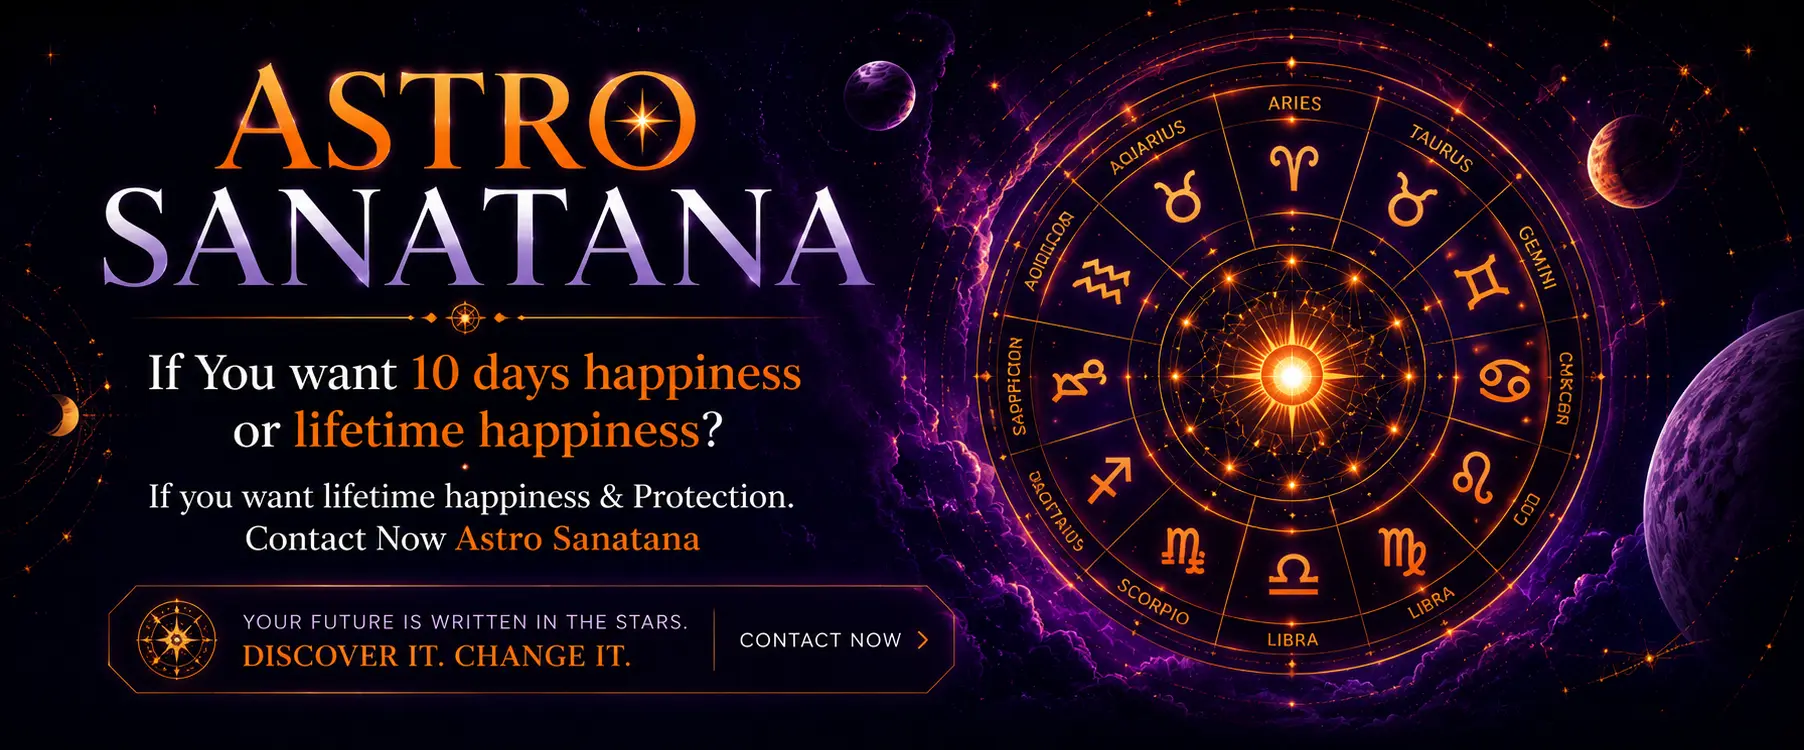
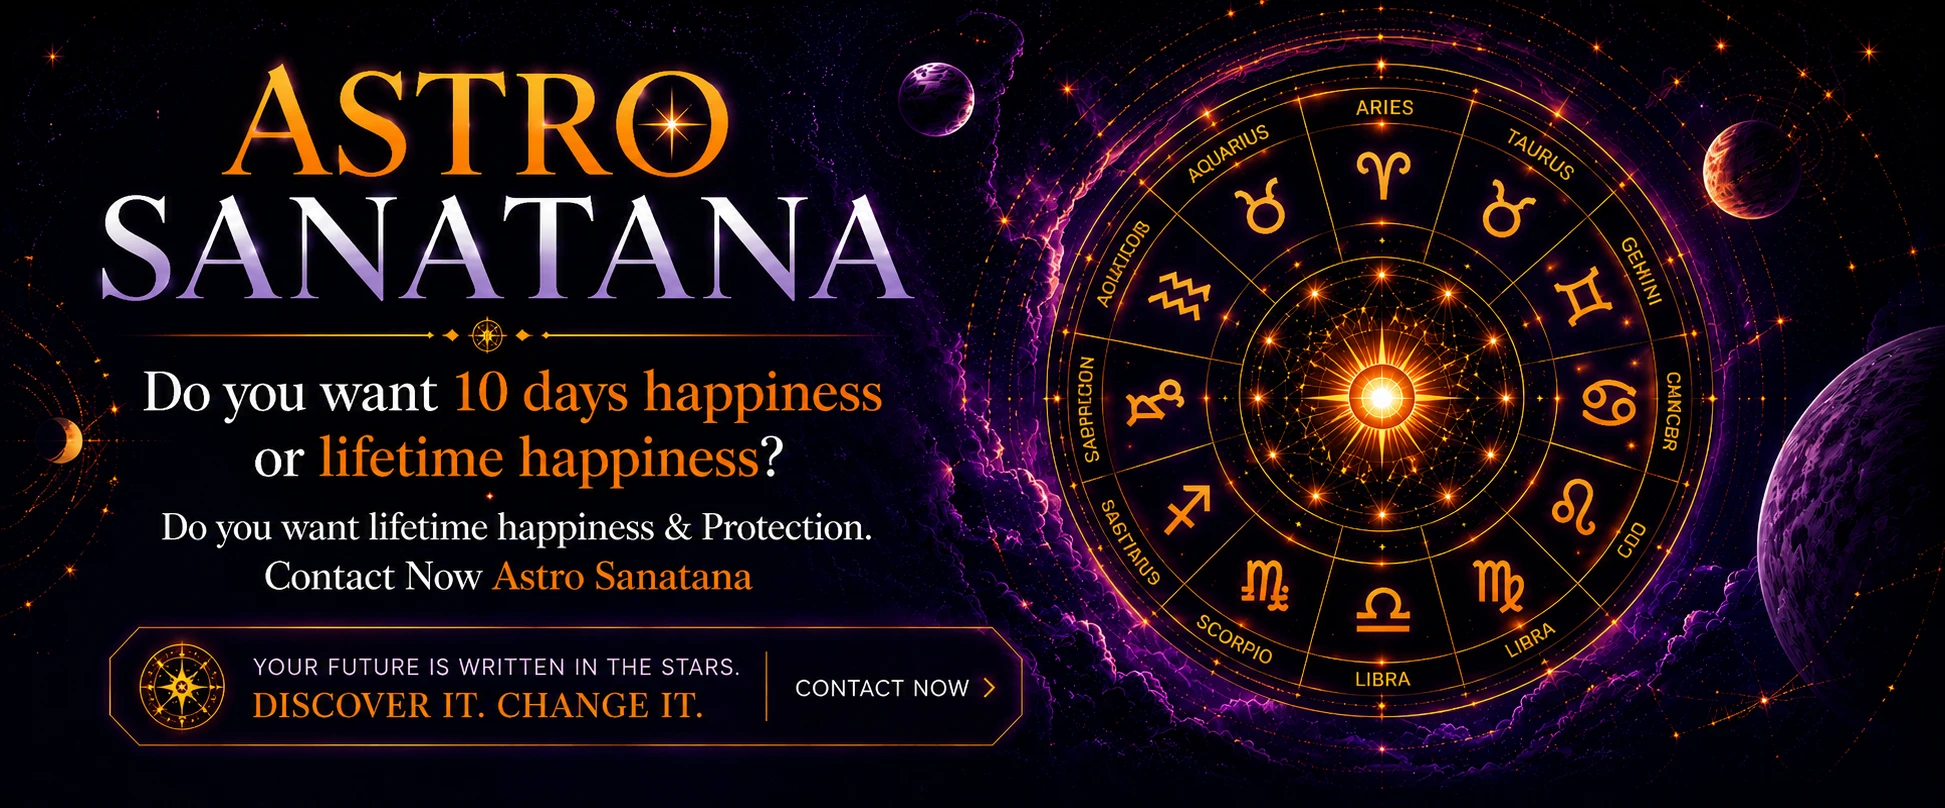
fixed issues

diff --git a/app/page.tsx b/app/page.tsx
@@ -9,6 +9,8 @@ import Stats from "./components/Stats";
 import ConnectNow from "./components/ConnectNow";
 import HonorableFeatures from "./components/HonorableFeatures";
 import CityServices from "./components/CityServices";
+import Link from "next/link";
+import ContactForm from "./components/ContactForm";
 
 export default function Home() {
   return (
@@ -19,6 +21,135 @@ export default function Home() {
       <GalleryCarousel />
       {/* <TeamCarousel /> */}
       <Solutions />
+
+      {/* Contact Form */}
+      <section className="relative w-full overflow-hidden bg-foreground py-16 md:py-24">
+
+        {/* Scattered star decorations */}
+        <svg className="absolute inset-0 w-full h-full pointer-events-none select-none" aria-hidden="true" xmlns="http://www.w3.org/2000/svg">
+          <circle cx="4%"  cy="12%" r="1.5" fill="#ffb58a" opacity="0.25" />
+          <circle cx="9%"  cy="55%" r="1"   fill="#ffb58a" opacity="0.18" />
+          <circle cx="15%" cy="30%" r="2"   fill="#ffb58a" opacity="0.12" />
+          <circle cx="18%" cy="80%" r="1.5" fill="#ffb58a" opacity="0.20" />
+          <circle cx="25%" cy="18%" r="1"   fill="#ffb58a" opacity="0.15" />
+          <circle cx="30%" cy="68%" r="2"   fill="#ffb58a" opacity="0.10" />
+          <circle cx="38%" cy="90%" r="1.5" fill="#ffb58a" opacity="0.18" />
+          <circle cx="42%" cy="8%"  r="1"   fill="#ffb58a" opacity="0.22" />
+          <circle cx="55%" cy="92%" r="1.5" fill="#ffb58a" opacity="0.14" />
+          <circle cx="65%" cy="5%"  r="2"   fill="#ffb58a" opacity="0.12" />
+          <circle cx="72%" cy="85%" r="1"   fill="#ffb58a" opacity="0.20" />
+          <circle cx="80%" cy="20%" r="1.5" fill="#ffb58a" opacity="0.16" />
+          <circle cx="85%" cy="60%" r="2"   fill="#ffb58a" opacity="0.10" />
+          <circle cx="90%" cy="40%" r="1"   fill="#ffb58a" opacity="0.22" />
+          <circle cx="95%" cy="75%" r="1.5" fill="#ffb58a" opacity="0.18" />
+          {/* 4-point star shapes */}
+          <path d="M60 8 L61.2 11.5 L65 11.5 L62 13.5 L63.2 17 L60 15 L56.8 17 L58 13.5 L55 11.5 L58.8 11.5 Z" fill="#ffb58a" opacity="0.20" transform="translate(-44, 40) scale(0.8)" />
+          <path d="M60 8 L61.2 11.5 L65 11.5 L62 13.5 L63.2 17 L60 15 L56.8 17 L58 13.5 L55 11.5 L58.8 11.5 Z" fill="#ffb58a" opacity="0.15" transform="translate(680, 120) scale(0.6)" />
+          <path d="M60 8 L61.2 11.5 L65 11.5 L62 13.5 L63.2 17 L60 15 L56.8 17 L58 13.5 L55 11.5 L58.8 11.5 Z" fill="#ffb58a" opacity="0.18" transform="translate(200, 280) scale(0.7)" />
+        </svg>
+
+        {/* Large faint ring behind left content */}
+        <div
+          className="absolute -left-32 top-1/2 -translate-y-1/2 w-120 h-120 rounded-full border border-primary/10 pointer-events-none"
+          aria-hidden="true"
+        />
+        <div
+          className="absolute -left-16 top-1/2 -translate-y-1/2 w-80 h-80 rounded-full border border-primary/10 pointer-events-none"
+          aria-hidden="true"
+        />
+
+        <div className="relative max-w-7xl mx-auto px-4 sm:px-10 md:px-14 lg:px-20">
+          <div className="grid grid-cols-1 lg:grid-cols-2 gap-12 lg:gap-16 items-center">
+
+            {/* Left — Info */}
+            <div className="flex flex-col gap-7">
+
+              {/* Ornamental divider */}
+              <div className="flex items-center gap-3">
+                <div className="h-px flex-1 bg-primary/20" />
+                <div className="w-9 h-9 rounded-full border border-primary/30 flex items-center justify-center shrink-0">
+                  <svg xmlns="http://www.w3.org/2000/svg" viewBox="0 0 24 24" fill="#ffb58a" className="w-4 h-4 opacity-80">
+                    <path d="M12 2l2.4 7.4H22l-6.2 4.5 2.4 7.4L12 17l-6.2 4.3 2.4-7.4L2 9.4h7.6z" />
+                  </svg>
+                </div>
+                <div className="h-px flex-1 bg-primary/20" />
+              </div>
+
+              {/* Heading */}
+              <div className="flex flex-col gap-3">
+                <h2 className="text-3xl sm:text-4xl md:text-5xl font-medium font-playfair-display text-white leading-tight">
+                  Begin Your
+                  <br />
+                  <span className="font-playfair-display-italic text-primary">Spiritual Journey</span>
+                </h2>
+                <p className="text-white/80 font-quicksand font-medium text-sm md:text-base leading-relaxed max-w-md">
+                  Share your concern and our expert astrologer will guide you with personalised Vedic remedies — available worldwide, in-person &amp; online.
+                </p>
+              </div>
+
+              {/* Trust points */}
+              <div className="flex flex-col gap-3.5">
+                {[
+                  { title: "Available 24/7", desc: "For urgent consultations, anytime" },
+                  { title: "Fully Confidential", desc: "Your privacy is our top priority" },
+                  { title: "Expert Vedic Guidance", desc: "Personalised remedies for your situation" },
+                  { title: "Serving Worldwide", desc: "In-person and online, across the globe" },
+                ].map((item, i) => (
+                  <div key={i} className="flex items-start gap-3">
+                    <span className="mt-0.5 w-5 h-5 rounded-full bg-primary/20 flex items-center justify-center shrink-0">
+                      <svg xmlns="http://www.w3.org/2000/svg" width="10" height="10" viewBox="0 0 24 24" fill="none" stroke="#ffb58a" strokeWidth="3" strokeLinecap="round" strokeLinejoin="round">
+                        <path d="M20 6 9 17l-5-5" />
+                      </svg>
+                    </span>
+                    <p className="font-quicksand text-sm leading-snug">
+                      <span className="text-white font-semibold">{item.title}</span>
+                      <span className="text-white/80"> — {item.desc}</span>
+                    </p>
+                  </div>
+                ))}
+              </div>
+
+              {/* Direct CTAs */}
+              <div className="flex flex-wrap gap-3 pt-1">
+                <Link
+                  href="tel:[phone redacted]"
+                  className="inline-flex items-center gap-2 bg-[#fff]/15 border border-[#fff]/30 text-[#fff] font-quicksand font-semibold rounded-full px-5 py-2.5 hover:bg-primary/25 transition-colors text-sm"
+                >
+                  <svg xmlns="http://www.w3.org/2000/svg" width="15" height="15" viewBox="0 0 24 24" fill="none" stroke="currentColor" strokeWidth="2.5" strokeLinecap="round" strokeLinejoin="round">
+                    <path d="M22 16.92v3a2 2 0 0 1-2.18 2 19.79 19.79 0 0 1-8.63-3.07A19.5 19.5 0 0 1 4.11 12 19.79 19.79 0 0 1 1.07 3.38A2 2 0 0 1 3 1.07h3a2 2 0 0 1 2 1.72c.127.96.361 1.903.7 2.81a2 2 0 0 1-.45 2.11L8.09 9.91a16 16 0 0 0 6 6l1.27-1.27a2 2 0 0 1 2.11-.45c.907.339 1.85.573 2.81.7A2 2 0 0 1 22 16.92z" />
+                  </svg>
+                  [phone redacted]
+                </Link>
+                {/* <Link
+                  href="https://wa.me/14169314409"
+                  target="_blank"
+                  rel="noopener noreferrer"
+                  className="inline-flex items-center gap-2 bg-[#25D366]/15 border border-[#25D366]/30 text-[#25D366] font-quicksand font-semibold rounded-full px-5 py-2.5 hover:bg-[#25D366]/25 transition-colors text-sm"
+                >
+                  <svg xmlns="http://www.w3.org/2000/svg" viewBox="0 0 24 24" fill="currentColor" width="15" height="15">
+                    <path d="M17.472 14.382c-.297-.149-1.758-.867-2.03-.967-.273-.099-.471-.148-.67.15-.197.297-.767.966-.94 1.164-.173.199-.347.223-.644.075-.297-.15-1.255-.463-2.39-1.475-.883-.788-1.48-1.761-1.653-2.059-.173-.297-.018-.458.13-.606.134-.133.298-.347.446-.52.149-.174.198-.298.298-.497.099-.198.05-.371-.025-.52-.075-.149-.669-1.612-.916-2.207-.242-.579-.487-.5-.669-.51-.173-.008-.371-.01-.57-.01-.198 0-.52.074-.792.372-.272.297-1.04 1.016-1.04 2.479 0 1.462 1.065 2.875 1.213 3.074.149.198 2.096 3.2 5.077 4.487.709.306 1.262.489 1.694.625.712.227 1.36.195 1.871.118.571-.085 1.758-.719 2.006-1.413.248-.694.248-1.289.173-1.413-.074-.124-.272-.198-.57-.347m-5.421 7.403h-.004a9.87 9.87 0 0 1-5.031-1.378l-.361-.214-3.741.982.998-3.648-.235-.374a9.86 9.86 0 0 1-1.51-5.26c.001-5.45 4.436-9.884 9.888-9.884 2.64 0 5.122 1.03 6.988 2.898a9.825 9.825 0 0 1 2.893 6.994c-.003 5.45-4.437 9.884-9.885 9.884m8.413-18.297A11.815 11.815 0 0 0 12.05 0C5.495 0 .16 5.335.157 11.892c0 2.096.547 4.142 1.588 5.945L.057 24l6.305-1.654a11.882 11.882 0 0 0 5.683 1.448h.005c6.554 0 11.89-5.335 11.893-11.893a11.821 11.821 0 0 0-3.48-8.413Z" />
+                  </svg>
+                  Chat on WhatsApp
+                </Link> */}
+              </div>
+            </div>
+
+            {/* Right — Form card */}
+            <div className="bg-background rounded-2xl md:rounded-3xl p-6 md:p-10 shadow-2xl ring-1 ring-white/10">
+              <div className="flex items-center gap-3 mb-7">
+                <div className="w-1 h-8 bg-primary rounded-full shrink-0" />
+                <div>
+                  <h3 className="text-lg font-semibold font-playfair-display text-foreground">Send Us a Message</h3>
+                  <p className="text-secondary font-quicksand text-xs mt-0.5">We'll respond within 24 hours</p>
+                </div>
+              </div>
+              <ContactForm />
+            </div>
+
+          </div>
+        </div>
+      </section>
+
       {/* <TeamGalleryCarousel /> */}
       <Stats />
       <ConnectNow />

diff --git a/app/data/services.ts b/app/data/services.ts
@@ -41,6 +41,67 @@ export const services: Service[] = [
     ],
   },
   {
+    slug: "chakra-cleansing",
+    label: "Chakra Cleansing",
+    image: "/AstrologyImg/chakra.jpg",
+    tagline: "Restore Balance to Your Energy Centres",
+    description: [
+      "The human body contains seven primary chakras — energy centres that govern our physical health, emotional well-being, mental clarity, and spiritual growth. When these energy centres become blocked, imbalanced, or depleted due to stress, trauma, negative energies, or karmic influences, we experience a range of issues including chronic fatigue, anxiety, relationship difficulties, and a deep sense of disconnection.",
+      "At Astro Sanatana, we offer authentic Vedic chakra cleansing sessions that combine ancient Mantra therapy, Yantra activation, Pranic healing techniques, and personalised Puja rituals to open, balance, and energise all seven chakras — helping you restore harmony across every dimension of your life.",
+    ],
+    whatWeOffer: [
+      "Full seven-chakra assessment and imbalance diagnosis",
+      "Beej Mantra therapy for each specific chakra",
+      "Yantra activation and placement for sustained chakra balance",
+      "Pranic and aura cleansing to remove energy blockages",
+      "Guided meditation and Pranayama for chakra activation",
+      "Personalised gemstone and colour therapy recommendations",
+    ],
+    howItWorks: [
+      { title: "Chakra Assessment", desc: "We analyse your birth chart and energy field to identify which chakras are blocked or imbalanced and understand the root cause." },
+      { title: "Cleansing & Activation", desc: "A personalised session using Beej Mantras, Pranic techniques, and sacred rituals is conducted to cleanse, open, and rebalance each affected chakra." },
+      { title: "Maintenance Practice", desc: "You receive a tailored daily practice — Mantras, meditation, and lifestyle guidance — to keep your chakras balanced and your energy flowing freely." },
+    ],
+    benefits: [
+      "Renewed energy, vitality, and physical well-being",
+      "Emotional stability and release of deep-seated stress",
+      "Enhanced mental clarity, focus, and creative flow",
+      "Stronger intuition and spiritual connection",
+      "Improved relationships through balanced heart and throat chakras",
+      "Protection from negative energies and psychic disturbances",
+    ],
+  },
+  {
+    slug: "identify-blockages-root-issues",
+    label: "Identify Blockages & Root Issues",
+    image: "/AstrologyImg/identify-blockages-root-issues.png",
+    tagline: "Uncover the Hidden Forces Holding You Back",
+    description: [
+      "Many people struggle with persistent patterns of failure, recurring misfortune, unexplained illness, relationship breakdowns, or financial stagnation — without ever understanding the true root cause. In Vedic astrology and spiritual science, these blockages often originate from planetary afflictions, karmic imprints, negative energies, ancestral curses (Pitru Dosha), or psychic interference that manifest as invisible walls in your life.",
+      "At Astro Sanatana, we offer a comprehensive diagnostic session that combines deep Kundli analysis, psychic assessment, and aura reading to identify the precise root cause of your challenges. Once the blockage is identified — whether it is astrological, spiritual, or energetic in nature — we design a targeted remedy plan to dissolve it permanently and restore the natural flow of abundance, health, and harmony in your life.",
+    ],
+    whatWeOffer: [
+      "In-depth Kundli analysis to identify planetary afflictions and Doshas",
+      "Psychic and aura scanning to detect spiritual or energetic blockages",
+      "Ancestral karma and Pitru Dosha assessment",
+      "Identification of Kaal Sarp Dosha, Mangal Dosha, and Sade Sati effects",
+      "Past-life karmic pattern analysis and resolution guidance",
+      "Personalised remedy plan targeting the identified root cause",
+    ],
+    howItWorks: [
+      { title: "Diagnostic Consultation", desc: "Share your birth details, life challenges, and recurring patterns. We perform a comprehensive Kundli reading and psychic assessment." },
+      { title: "Root Cause Identification", desc: "We pinpoint the exact source of your blockage — whether planetary, karmic, ancestral, or energetic — with clarity and precision." },
+      { title: "Targeted Remedy Plan", desc: "A personalised action plan is provided: specific Pujas, Mantras, Yantras, and lifestyle guidance to permanently dissolve the identified blockage." },
+    ],
+    benefits: [
+      "Clear understanding of why things keep going wrong",
+      "Release from recurring patterns of failure and misfortune",
+      "Targeted remedies that address the actual root cause",
+      "Restored flow of prosperity, health, and harmonious relationships",
+      "Renewed clarity, direction, and spiritual protection",
+    ],
+  },
+  {
     slug: "get-your-ex-love-back",
     label: "Get Your Ex Love Back",
     image: "/AstrologyImg/GetYourExLoveBack.jpg",
@@ -340,37 +401,6 @@ export const services: Service[] = [
   //     "Clarity on financial decisions and speculative activities",
   //   ],
   // },
-  {
-    slug: "chakra-cleansing",
-    label: "Chakra Cleansing",
-    image: "/AstrologyImg/chakra.jpg",
-    tagline: "Restore Balance to Your Energy Centres",
-    description: [
-      "The human body contains seven primary chakras — energy centres that govern our physical health, emotional well-being, mental clarity, and spiritual growth. When these energy centres become blocked, imbalanced, or depleted due to stress, trauma, negative energies, or karmic influences, we experience a range of issues including chronic fatigue, anxiety, relationship difficulties, and a deep sense of disconnection.",
-      "At Astro Sanatana, we offer authentic Vedic chakra cleansing sessions that combine ancient Mantra therapy, Yantra activation, Pranic healing techniques, and personalised Puja rituals to open, balance, and energise all seven chakras — helping you restore harmony across every dimension of your life.",
-    ],
-    whatWeOffer: [
-      "Full seven-chakra assessment and imbalance diagnosis",
-      "Beej Mantra therapy for each specific chakra",
-      "Yantra activation and placement for sustained chakra balance",
-      "Pranic and aura cleansing to remove energy blockages",
-      "Guided meditation and Pranayama for chakra activation",
-      "Personalised gemstone and colour therapy recommendations",
-    ],
-    howItWorks: [
-      { title: "Chakra Assessment", desc: "We analyse your birth chart and energy field to identify which chakras are blocked or imbalanced and understand the root cause." },
-      { title: "Cleansing & Activation", desc: "A personalised session using Beej Mantras, Pranic techniques, and sacred rituals is conducted to cleanse, open, and rebalance each affected chakra." },
-      { title: "Maintenance Practice", desc: "You receive a tailored daily practice — Mantras, meditation, and lifestyle guidance — to keep your chakras balanced and your energy flowing freely." },
-    ],
-    benefits: [
-      "Renewed energy, vitality, and physical well-being",
-      "Emotional stability and release of deep-seated stress",
-      "Enhanced mental clarity, focus, and creative flow",
-      "Stronger intuition and spiritual connection",
-      "Improved relationships through balanced heart and throat chakras",
-      "Protection from negative energies and psychic disturbances",
-    ],
-  },
   {
     slug: "job-business-problems",
     label: "Job & Business Problems",

diff --git a/app/components/Header.tsx b/app/components/Header.tsx
@@ -94,6 +94,15 @@ export default function Header() {
 
           {/* Mobile: Hamburger */}
           <div className="lg:hidden flex items-center gap-2">
+            <Link
+              href="tel:[phone redacted]"
+              className="inline-flex items-center gap-1.5 bg-secondary text-white font-quicksand font-semibold rounded-full px-3 py-1.5 text-xs"
+            >
+              <svg xmlns="http://www.w3.org/2000/svg" width="12" height="12" viewBox="0 0 24 24" fill="none" stroke="currentColor" strokeWidth="2.5" strokeLinecap="round" strokeLinejoin="round">
+                <path d="M22 16.92v3a2 2 0 0 1-2.18 2 19.79 19.79 0 0 1-8.63-3.07A19.5 19.5 0 0 1 4.11 12 19.79 19.79 0 0 1 1.07 3.38A2 2 0 0 1 3 1.07h3a2 2 0 0 1 2 1.72c.127.96.361 1.903.7 2.81a2 2 0 0 1-.45 2.11L8.09 9.91a16 16 0 0 0 6 6l1.27-1.27a2 2 0 0 1 2.11-.45c.907.339 1.85.573 2.81.7A2 2 0 0 1 22 16.92z" />
+              </svg>
+              416-931-4409
+            </Link>
             <button
               onClick={() => setMenuOpen(true)}
               className="inline-flex items-center justify-center text-primary hover:text-secondary p-2"

diff --git a/app/components/Solutions.tsx b/app/components/Solutions.tsx
@@ -3,7 +3,9 @@ import Link from "next/link";
 
 const services = [
   { label: "Black Magic Removal", image: "/AstrologyImg/BlackMagicRemoval.jpg", slug: "black-magic-removal" },
-  { label: "Get Your Ex Love Back", image: "/AstrologyImg/GetYourExLoveBack.jpg", slug: "get-your-ex-love-back" },
+  { label: "Chakra Cleansing",              image: "/AstrologyImg/chakra.jpg",                slug: "chakra-cleansing" },
+  { label: "Identify Blockages & Root Issues", image: "/AstrologyImg/identify-blockages-root-issues.png", slug: "identify-blockages-root-issues" },
+  { label: "Get Your Ex Love Back",          image: "/AstrologyImg/GetYourExLoveBack.jpg",       slug: "get-your-ex-love-back" },
   { label: "Evil Spirit Removal", image: "/AstrologyImg/EvilSpiritRemoval.jpg", slug: "evil-spirit-removal" },
   { label: "Palm Reading", image: "/AstrologyImg/PalmReading.jpg", slug: "palm-reading" },
   { label: "Negative Energy Removal", image: "/AstrologyImg/NegativeEnergyRemoval.jpg", slug: "negative-energy-removal" },
@@ -14,7 +16,6 @@ const services = [
   { label: "Spiritual Healing", image: "/AstrologyImg/SpiritualHealing.jpg", slug: "spiritual-healing" },
   // { label: "Win Lotto", image: "/AstrologyImg/WinLotto.jpg", slug: "win-lotto" },
   { label: "Job & Business Problems", image: "/AstrologyImg/JobBusinessProblems.jpg", slug: "job-business-problems" },
-  { label: "Chakra Cleansing",        image: "/AstrologyImg/chakra.jpg",    slug: "chakra-cleansing" },
 ];
 
 export default function Solutions() {
@@ -22,7 +23,7 @@ export default function Solutions() {
     <section className="w-full px-4 sm:px-10 md:px-14 lg:px-20 py-10 md:py-16 pt-0! bg-background">
 
       {/* Heading */}
-      <h2 className="text-center font-playfair-display text-primary text-2xl sm:text-3xl md:text-4xl font-bold mb-10 md:mb-14 leading-snug">
+      <h2 className="text-center font-playfair-display text-primary text-2xl sm:text-3xl md:text-4xl font-bold mb-4 md:mb-14 leading-snug">
         Best Solution Provided By{" "}
         <span className="font-playfair-display-italic text-foreground">
           Astro Sanatana

diff --git a/app/components/GalleryCarousel.tsx b/app/components/GalleryCarousel.tsx
@@ -49,12 +49,15 @@ export default function GalleryCarousel() {
       <div className="bg-background p-4 sm:p-10 md:p-14 lg:p-20 overflow-hidden">
 
         {/* Heading */}
-        <h2 className="text-center font-playfair-display text-primary text-2xl sm:text-3xl md:text-4xl font-bold mb-10 md:mb-14 leading-snug">
+        <h2 className="text-center font-playfair-display text-primary text-2xl sm:text-3xl md:text-4xl font-bold mb-4 md:mb-4 leading-snug">
           Astro Sanatana Veera Indian Renowned Psychic,{" "}
           <span className="font-playfair-display-italic text-foreground">
             Spiritual Healer
           </span>
         </h2>
+        <p className="text-center text-secondary font-quicksand font-medium text-sm md:text-base leading-relaxed max-w-2xl mx-auto mt-2 mb-2">
+          It&apos;s time to step into light — when light shines in darkness, all is revealed. The truth of a matter is a starting point, a direction. Whatever this may be for you, it begins when you choose to step out of the dark and say, let there be light.
+        </p>
         <div className="row-start-2 md:row-start-2 md:col-span-2">
           <div className="w-full mt-6 self-stretch">
             <Swiper

diff --git a/app/components/CityServices.tsx b/app/components/CityServices.tsx
@@ -34,10 +34,10 @@ const cityData: { city: string; services?: string[] }[] = [
 
 export default function CityServices() {
   return (
-    <section className="w-full px-4 sm:px-10 md:px-14 lg:px-20 py-10 md:py-16 bg-[#FFF2EB] mt-10 md:mt-16">
+    <section className="w-full px-4 sm:px-10 md:px-14 lg:px-20 py-10 md:py-16 bg-[#FFF2EB] mt-12 md:mt-12">
 
       {/* Heading */}
-      <h2 className="text-center font-playfair-display text-primary text-2xl sm:text-3xl md:text-4xl font-bold mb-10 md:mb-14 leading-snug">
+      <h2 className="text-center font-playfair-display text-primary text-2xl sm:text-3xl md:text-4xl font-bold mb-6 md:mb-14 leading-snug">
         Astrologer Services{" "}
         <span className="font-playfair-display-italic text-foreground">
           Across the USA

diff --git a/app/components/Stats.tsx b/app/components/Stats.tsx
@@ -6,7 +6,7 @@ const stats = [
 
 export default function Stats() {
   return (
-    <div className="py-6">
+    <div className="py-6 pt-12">
       <div className="flex text-secondary justify-center flex-wrap w-full gap-6 md:gap-20">
         {stats.map((stat) => (
           <div